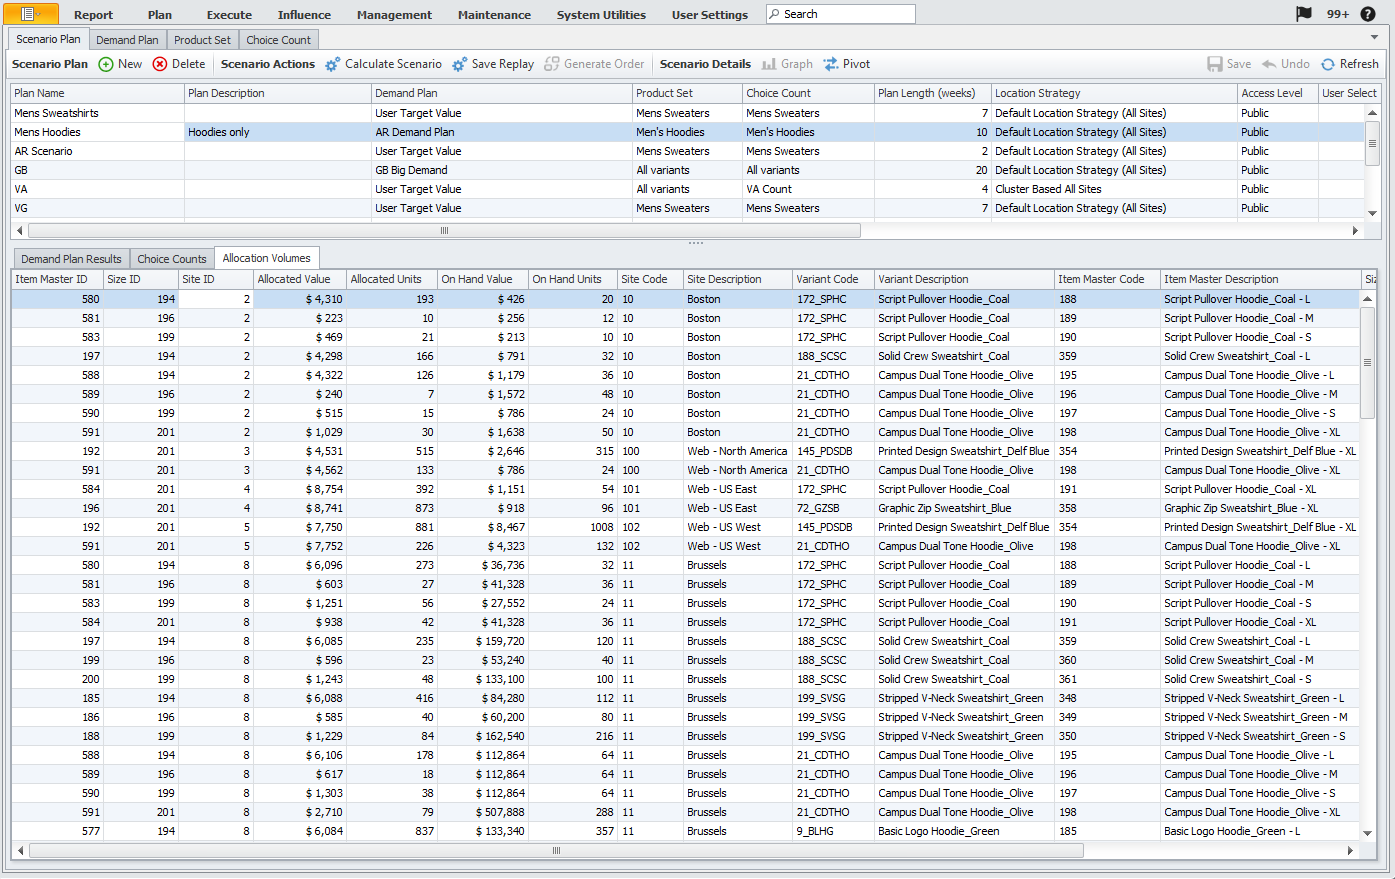
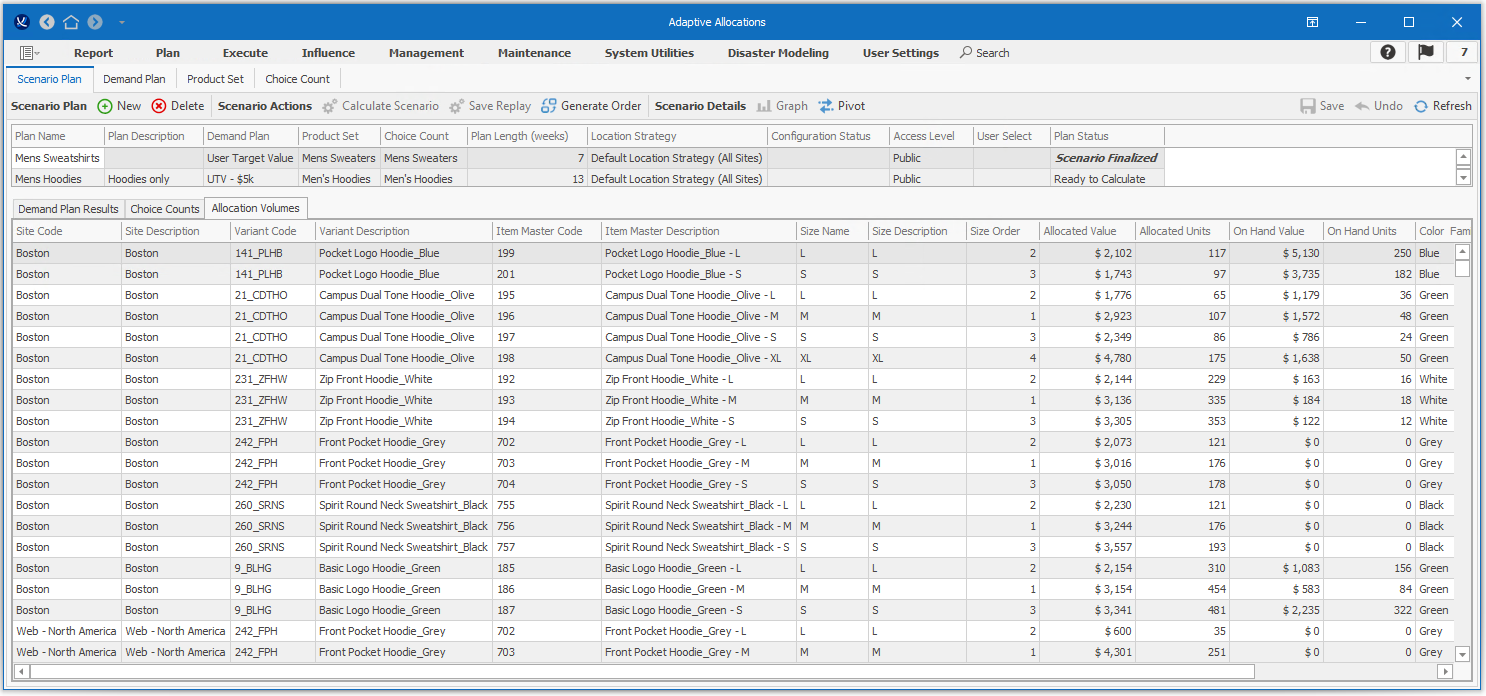
Adaptive Allocations

diff --git a/Content/Topics/Adaptive Allocations/Scenario Plan grid field descriptions.htm b/Content/Topics/Adaptive Allocations/Scenario Plan grid field descriptions.htm
@@ -6,17 +6,17 @@
         <h1>Scenario Plan grid fields and descriptions</h1>
         <p>The <span class="Emphasis">Scenario Plan</span> grid manages the configuration of scenario plans. </p>
         <ul>
-            <li><span class="Emphasis">Access Level</span> – Defines user access to the scenario plan. <ul><li><span class="Emphasis">Public</span> – All users within the application. </li><li><span class="Emphasis">Private</span> – Only to the creator.</li><li><span class="Emphasis">Shared</span> – Only specific users. </li></ul></li>
+            <li><span class="Emphasis">Access Level</span> – Defines user access to the scenario plan. <ul><li><span class="Emphasis">Public</span> – All users.</li><li><span class="Emphasis">Private</span> – Only the creator.</li><li><span class="Emphasis">Shared</span> – Only specific users. </li></ul></li>
             <li><span class="Emphasis">Choice Count</span> – The available choice count models. Must be populated to pass configuration status requirements.</li>
             <li><span class="Emphasis">Configuration Status</span> – The status of the scenario plan. Any missing configuration components display in a comma separated list in this field. Missing configuration elements prohibit scenario calculation. </li>
             <li><span class="Emphasis">Demand Plan</span> – The available demand plans. Must be populated to pass configuration status requirements.</li>
-            <li><span class="Emphasis">Location Strategy</span> – A key component to calculation of both choice count and allocation volumes, the location strategy specifies the stores which are eligible to receive stock as part of the allocation. <MadCap:conditionalText MadCap:conditions="General.ScreenOnly">For more information, see <MadCap:xref href="../Allocations/Location Strategy.htm">Location strategies</MadCap:xref>.</MadCap:conditionalText><MadCap:conditionalText MadCap:conditions="General.PrintOnly"> For more information on Location Strategies, refer to the Allocations User Guide.  </MadCap:conditionalText></li>
-            <li><span class="Emphasis">Max Pick Ratio</span> – The maximum pick quantity for the draft engine based on a percentage of the ideal pick value (calculated as need target/choice count). This field is hidden by default and defaults to system policy specified value (initializes to 200%).</li>
-            <li><span class="Emphasis">Min Pick Ratio</span> – The minimum pick quantity for the draft engine based on a percentage of the ideal pick value (calculated as need target/choice count). This field is hidden by default and defaults to system policy specified value (initializes to 50%). </li>
+            <li><span class="Emphasis">Location Strategy</span> – A key component in calculating both choice count and allocation volumes, the location strategy specifies the stores which are eligible to receive stock as part of the allocation. <MadCap:conditionalText MadCap:conditions="General.ScreenOnly">For more information, see <MadCap:xref href="../Allocations/Location Strategy.htm">Location strategies</MadCap:xref>.</MadCap:conditionalText><MadCap:conditionalText MadCap:conditions="General.PrintOnly"> For more information on Location Strategies, refer to the Allocations User Guide.  </MadCap:conditionalText></li>
+            <li><span class="Emphasis">Max Pick Ratio</span> – The maximum pick quantity for the draft engine based on a percentage of the ideal pick value (calculated as need target/choice count). This field is hidden by default and defaults to a system policy specified value (initializes to 200%).</li>
+            <li><span class="Emphasis">Min Pick Ratio</span> – The minimum pick quantity for the draft engine based on a percentage of the ideal pick value (calculated as need target/choice count). This field is hidden by default and defaults to a system policy specified value (initializes to 50%). </li>
             <li><span class="Emphasis">Plan Description</span> – An optional description for the scenario plan. </li>
             <li><span class="Emphasis">Plan Length</span> – The expected duration of the stock coverage from the resulting plan. Though not restricted to aligning with the selected demand plan time frame, it is considered best practice not to deviate from the already specified length of time. </li>
             <li><span class="Emphasis">Plan Name</span> – The unique name for the scenario plan. </li>
-            <li><span class="Emphasis">Plan Status</span> – Defines the workflow options available for the scenario plan. Updates based on changes made to the plan. Statuses include:<ul><li><span class="Emphasis">Requires Configuration</span> – Configuration elements are missing. Refer to the <span class="Emphasis">Configuration Status</span> field for additional information. No workflow options are available until configuration is complete. </li><li><span class="Emphasis">Configuration Changed</span> – Configuration elements have changed and a plan calculation is required. Any results currently displayed within the scenario details section are related to the previous configuration and are considered to be stale. Workflow options are identical to those of the <span class="Emphasis">Ready to Calculate</span> status.</li><li><span class="Emphasis">Ready to Calculate</span> – Once configuration is complete, the plan status updates to <span class="Emphasis">Ready to Calculate</span> and the draft engine may be run. Workflow options are identical to those of the <span class="Emphasis">Configuration Changed</span> status. </li><li><span class="Emphasis">Ready to Execute</span> – Once calculation has been completed, the scenario plan results are available to view within the scenario details section and the plan status changes to <span class="Emphasis">Ready to Execute</span>. From this workflow status, users can create orders if the results are satisfactory or alter the configuration to produce different results. This updates the status to <span class="Emphasis">Ready to Calculate</span>. </li><li><span class="Emphasis">Scenario Finalized</span> – Once orders have been created, the scenario is finalized and is read-only to prevent order duplication. </li></ul></li>
+            <li><span class="Emphasis">Plan Status</span> – Defines the work flow options available for the scenario plan. Updates based on changes made to the plan. Statuses include:<ul><li><span class="Emphasis">Requires Configuration</span> – Configuration elements are missing. Refer to the <span class="Emphasis">Configuration Status</span> field for additional information. No work flow options are available until configuration is complete. </li><li><span class="Emphasis">Configuration Changed</span> – Configuration elements have changed and a plan calculation is required. Any results currently displayed within the scenario details section are related to the previous configuration and are considered to be stale. Workflow options are identical to those of the <span class="Emphasis">Ready to Calculate</span> status.</li><li><span class="Emphasis">Ready to Calculate</span> – Once configuration is complete, the plan status updates to <span class="Emphasis">Ready to Calculate</span> and the draft engine may be run. Workflow options are identical to those of the <span class="Emphasis">Configuration Changed</span> status. </li><li><span class="Emphasis">Ready to Execute</span> – Once calculation has been completed, the scenario plan results are available to view within the scenario details section and the plan status changes to <span class="Emphasis">Ready to Execute</span>. From this work flow status, users can create orders if the results are satisfactory or alter the configuration to produce different results. This updates the status to <span class="Emphasis">Ready to Calculate</span>. </li><li><span class="Emphasis">Scenario Finalized</span> – Once orders have been created, the scenario is finalized and is read-only to prevent order duplication. </li></ul></li>
             <li><span class="Emphasis">Product Set</span> – The available product sets. Must be populated to pass configuration status requirements. </li>
             <li><span class="Emphasis">User Select</span> – If set to a shared access level, the list of shared users. </li>
         </ul>

diff --git a/Content/Topics/Adaptive Allocations/Potential Allocation Quantities.htm b/Content/Topics/Adaptive Allocations/Potential Allocation Quantities.htm
@@ -20,10 +20,10 @@
             <li><span class="Emphasis">Item Master Description</span> – The description for the item master. </li>
             <li><span class="Emphasis">Size Name</span> – The unique code for the size. This is unique by item master and can be removed from the view if sufficient information exists to describe size in the item master code or item master description. </li>
             <li><span class="Emphasis">Size Description</span> – The description for the size. </li>
-            <li><span class="Emphasis">Allocation Quantity Value</span> – The value in base currency of the allocation quantity units. </li>
-            <li><span class="Emphasis">Allocation Quantity Units</span> – The calculated quantity of units to be allocated as the result of the scenario plan. </li>
-            <li><span class="Emphasis">Store On Hand Value</span> – The value in base currency of the store on-hand units. </li>
-            <li><span class="Emphasis">Store On Hand Units</span> – The quantity of units on-hand at the store at the time of scenario calculation.</li>
+            <li><span class="Emphasis">Allocated Value</span> – The value in base currency of the allocation quantity units. </li>
+            <li><span class="Emphasis">Allocated Units</span> – The calculated quantity of units to be allocated as the result of the scenario plan. </li>
+            <li><span class="Emphasis">On Hand Value</span> – The value in base currency of the store on-hand units. </li>
+            <li><span class="Emphasis">On Hand Units</span> – The quantity of units on-hand at the store at the time of scenario calculation.</li>
         </ul>
     </body>
 </html>
